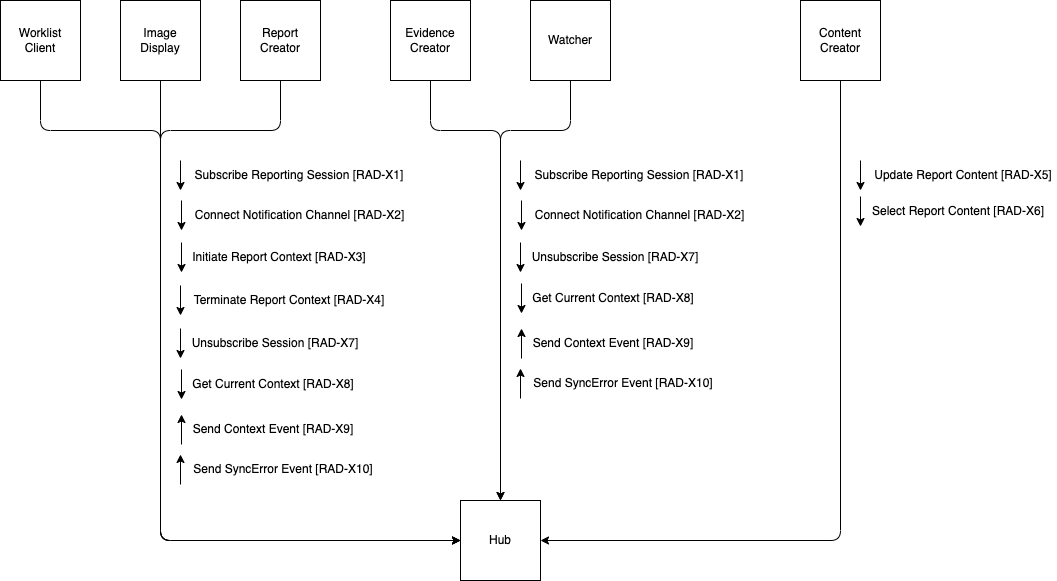
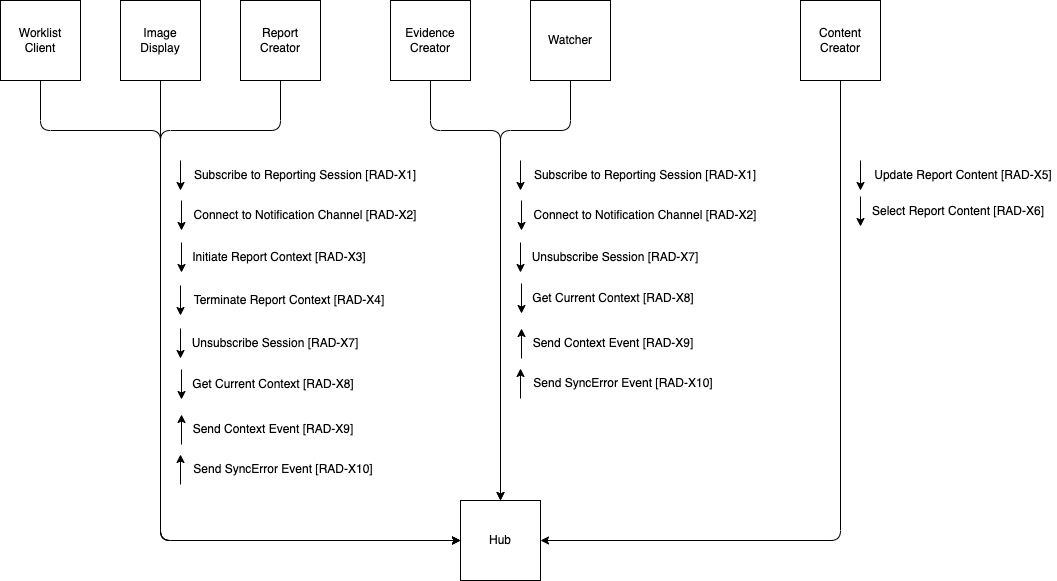
Added 'to' in X1 and X2 transaction name.

diff --git a/input/pagecontent/volume-1.md b/input/pagecontent/volume-1.md
@@ -36,13 +36,13 @@ Table 1:XX.1-1 lists the transactions for each actor directly involved in the IM
   <tbody>
     <tr>
       <td rowspan="8"><a href="volume-1.html#1xx111-image-display">Image Display</a></td>
-      <td>Subscribe Reporting Session [RAD-X1]</td>
+      <td>Subscribe to Reporting Session [RAD-X1]</td>
       <td>Initiator</td>
       <td>R</td>
       <td><a href="rad-x1.html">RAD TF-2: 4.X1</a></td>
     </tr>
     <tr>
-      <td>Connect Notification Channel [RAD-X2]</td>
+      <td>Connect to Notification Channel [RAD-X2]</td>
       <td>Initiator</td>
       <td>R</td>
       <td><a href="rad-x2.html">RAD TF-2: 4.X2</a></td>
@@ -85,13 +85,13 @@ Table 1:XX.1-1 lists the transactions for each actor directly involved in the IM
     </tr>
       <tr>
       <td rowspan="8"><a href="volume-1.html#1xx112-report-creator">Report Creator</a></td>
-      <td>Subscribe Reporting Session [RAD-X1]</td>
+      <td>Subscribe to Reporting Session [RAD-X1]</td>
       <td>Initiator</td>
       <td>R</td>
       <td><a href="rad-x1.html">RAD TF-2: 4.X1</a></td>
     </tr>
     <tr>
-      <td>Connect Notification Channel [RAD-X2]</td>
+      <td>Connect to Notification Channel [RAD-X2]</td>
       <td>Initiator</td>
       <td>R</td>
       <td><a href="rad-x2.html">RAD TF-2: 4.X2</a></td>
@@ -134,13 +134,13 @@ Table 1:XX.1-1 lists the transactions for each actor directly involved in the IM
     </tr>
       <tr>
       <td rowspan="8"><a href="volume-1.html#1xx113-worklist-display">Worklist Client</a></td>
-      <td>Subscribe Reporting Session [RAD-X1]</td>
+      <td>Subscribe to Reporting Session [RAD-X1]</td>
       <td>Initiator</td>
       <td>R</td>
       <td><a href="rad-x1.html">RAD TF-2: 4.X1</a></td>
     </tr>
     <tr>
-      <td>Connect Notification Channel [RAD-X2]</td>
+      <td>Connect to Notification Channel [RAD-X2]</td>
       <td>Initiator</td>
       <td>R</td>
       <td><a href="rad-x2.html">RAD TF-2: 4.X2</a></td>
@@ -183,13 +183,13 @@ Table 1:XX.1-1 lists the transactions for each actor directly involved in the IM
     </tr>
     <tr>
       <td rowspan="6"><a href="volume-1.html#1xx114-evidence-creator">Evidence Creator</a></td>
-      <td>Subscribe Reporting Session [RAD-X1]</td>
+      <td>Subscribe to Reporting Session [RAD-X1]</td>
       <td>Initiator</td>
       <td>R</td>
       <td><a href="rad-x1.html">RAD TF-2: 4.X1</a></td>
     </tr>
     <tr>
-      <td>Connect Notification Channel [RAD-X2]</td>
+      <td>Connect to Notification Channel [RAD-X2]</td>
       <td>Initiator</td>
       <td>R</td>
       <td><a href="rad-x2.html">RAD TF-2: 4.X2</a></td>
@@ -233,13 +233,13 @@ Table 1:XX.1-1 lists the transactions for each actor directly involved in the IM
     </tr>
     <tr>
       <td rowspan="6"><a href="volume-1.html#1xx116-watcher">Watcher</a></td>
-      <td>Subscribe Reporting Session [RAD-X1]</td>
+      <td>Subscribe to Reporting Session [RAD-X1]</td>
       <td>Initiator</td>
       <td>R</td>
       <td><a href="rad-x1.html">RAD TF-2: 4.X1</a></td>
     </tr>
     <tr>
-      <td>Connect Notification Channel [RAD-X2]</td>
+      <td>Connect to Notification Channel [RAD-X2]</td>
       <td>Initiator</td>
       <td>R</td>
       <td><a href="rad-x2.html">RAD TF-2: 4.X2</a></td>
@@ -799,8 +799,8 @@ Subscribing to a reporting session is a common starting point for any `Subscribe
 
 Subscribing to a reporting session involves two transactions:
 
-- Subscribe Reporting Session [RAD-X1]
-- Connect Notification Channel [RAD-X2]
+- Subscribe to Reporting Session [RAD-X1]
+- Connect to Notification Channel [RAD-X2]
 
 For a Synchronizing Application, the session is provided by the Driving Application during launch.
 

diff --git a/input/pagecontent/rad-x1.md b/input/pagecontent/rad-x1.md
@@ -99,7 +99,7 @@ The Manager may return other applicable HTTP error status codes.
 
 If the HTTP response code is `202` Accepted, the Subscriber shall extract the websocket WSS URL from `hub.channel.endpoint`.
 
-The Subscriber may use the `hub.channel.endpoint` in a subsequent Connect Notification Channel [RAD-X2] transaction and subsequent subscription update, renewal or Unsubscribe Session [RAD-X7] requests.
+The Subscriber may use the `hub.channel.endpoint` in a subsequent Connect to Notification Channel [RAD-X2] transaction and subsequent subscription update, renewal or Unsubscribe Session [RAD-X7] requests.
 
 If the HTTP response code is 4xx or 5xx, then the Subscriber may adjust the request and retry.
 
